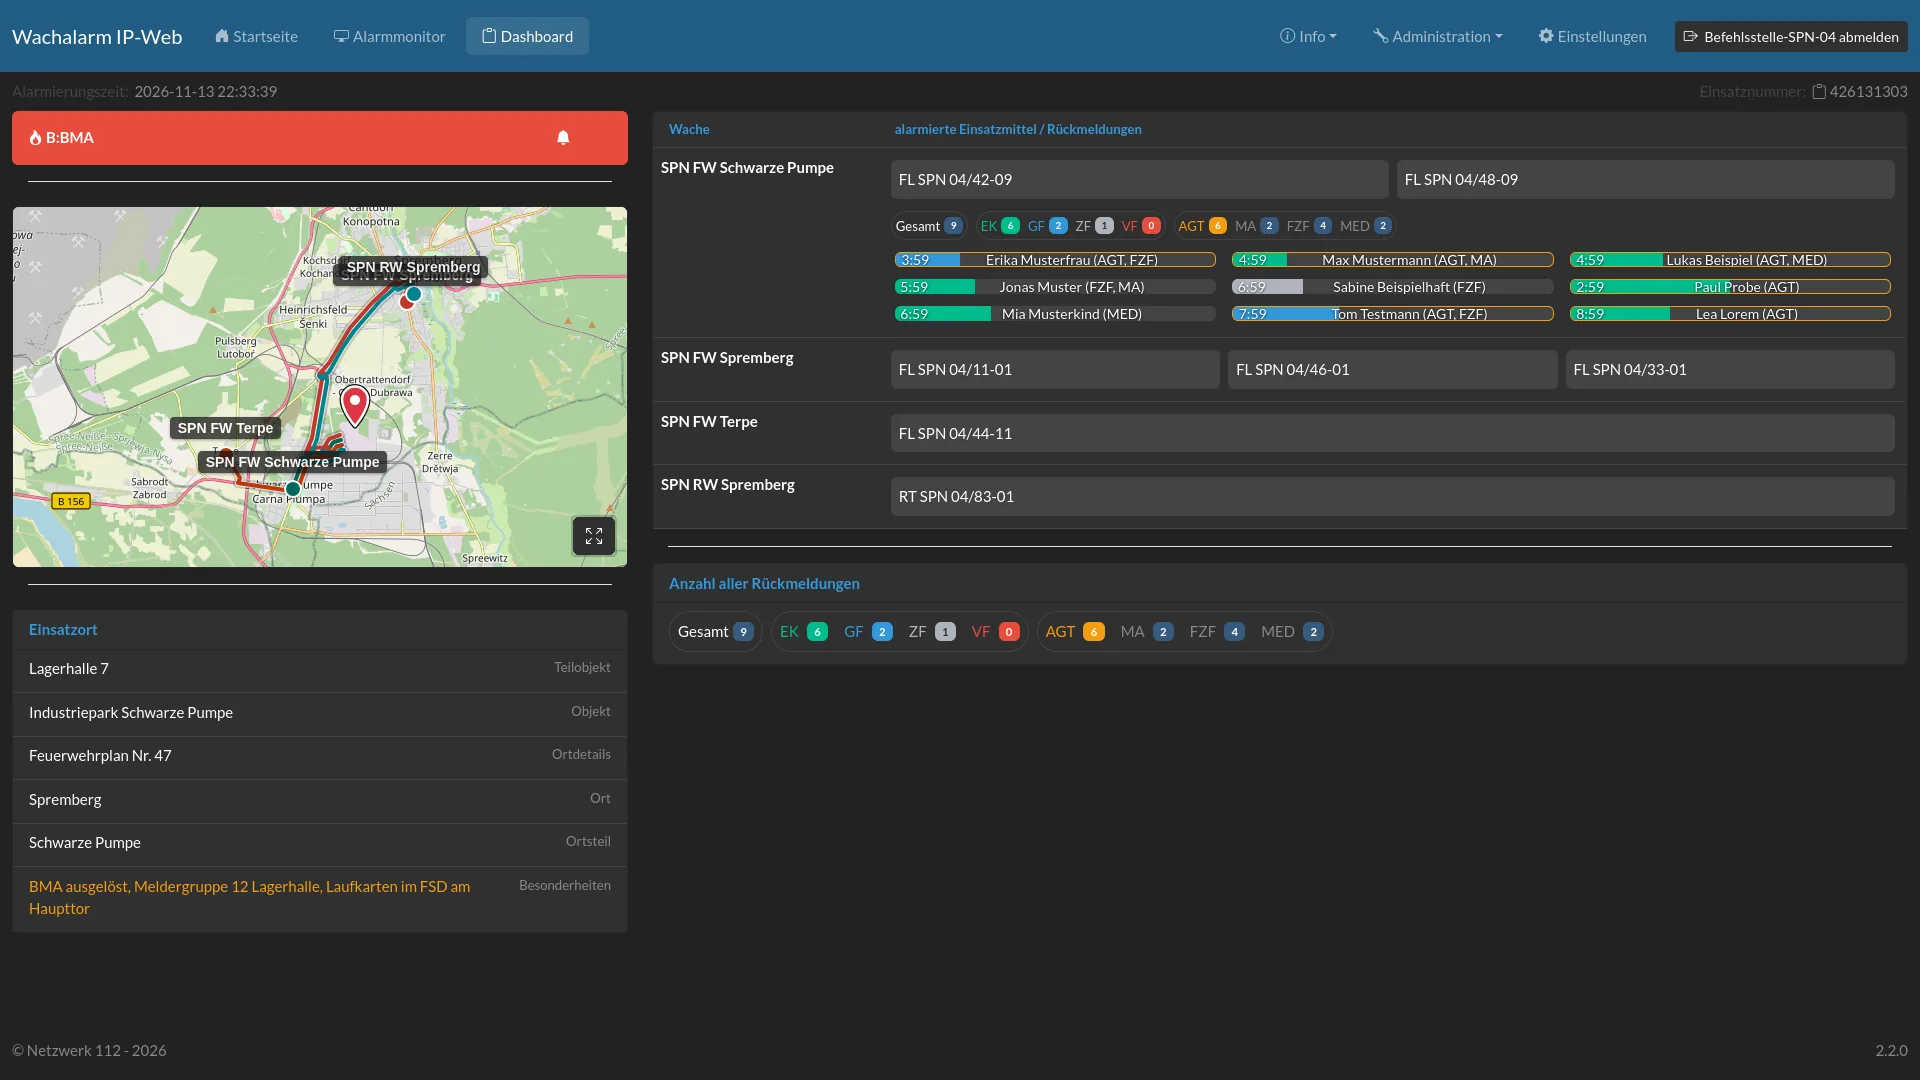
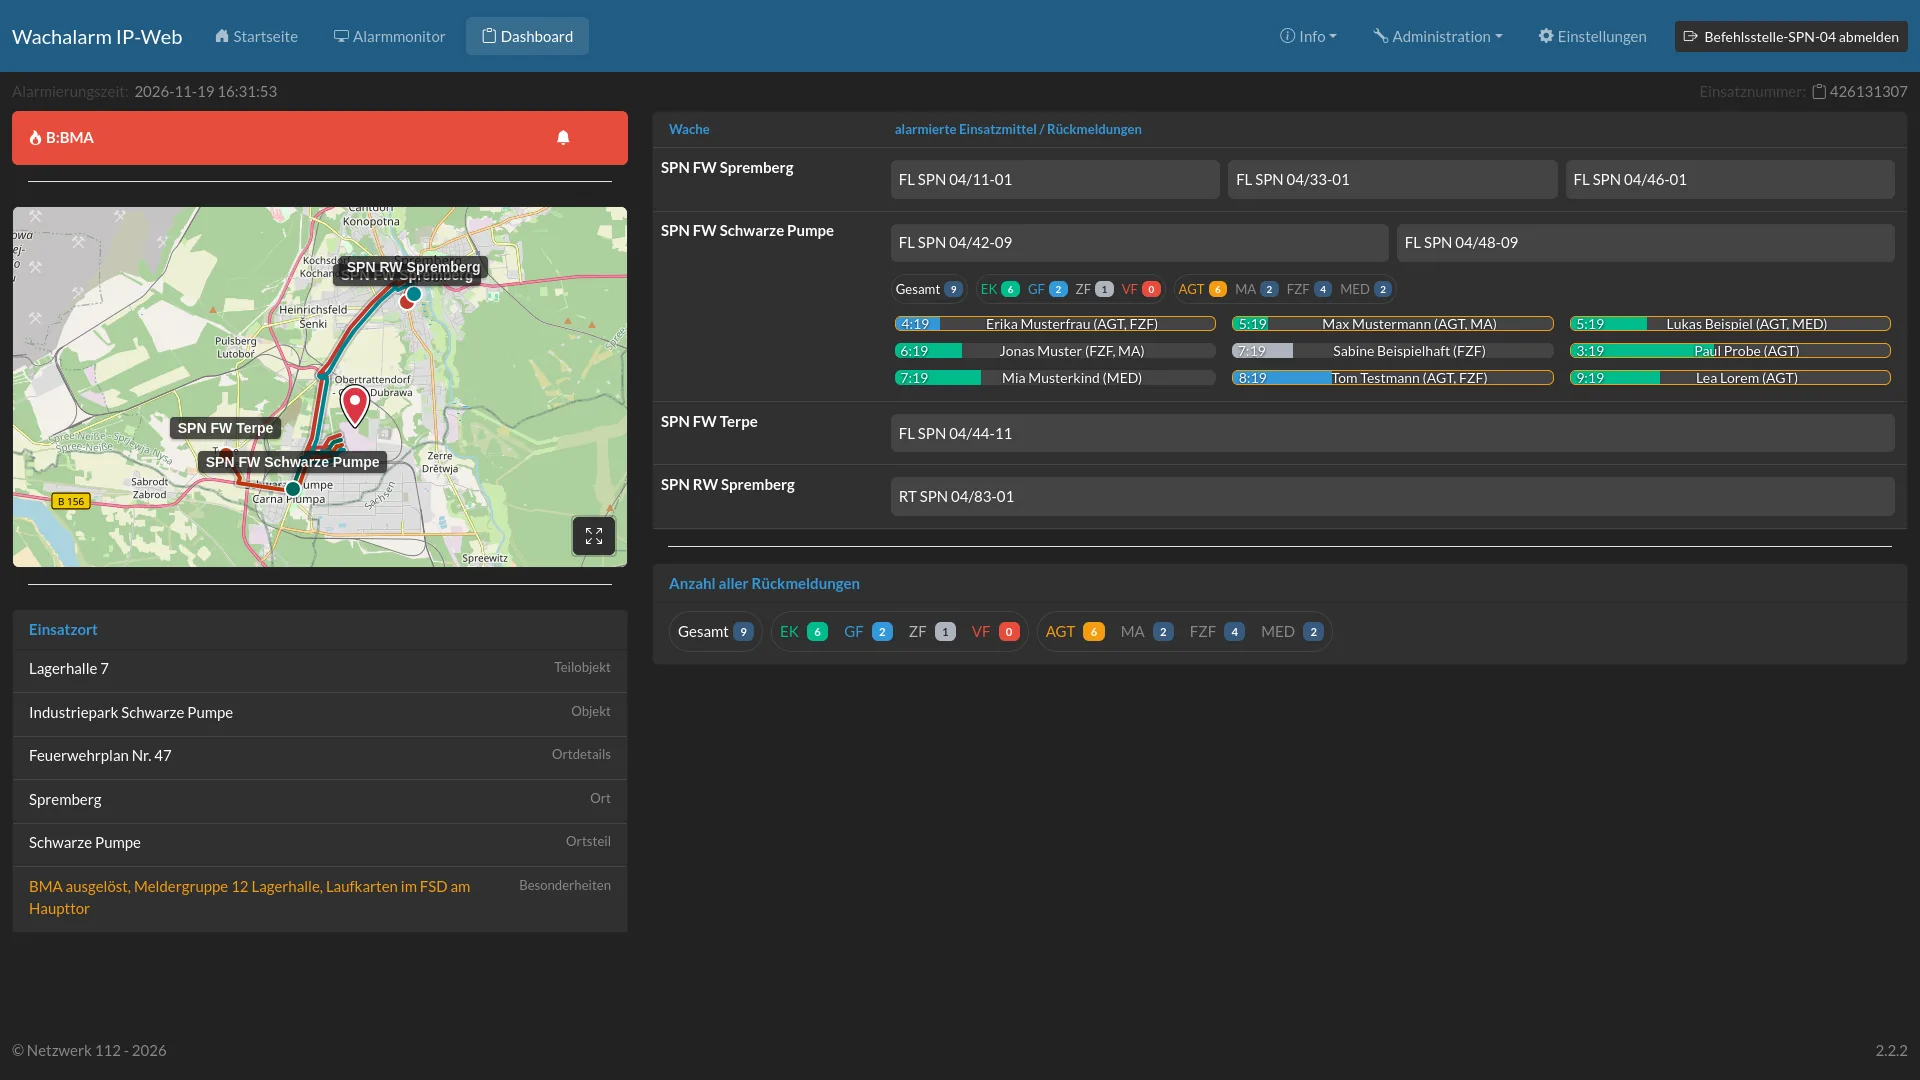
README: Version 2.2.2 im Versionsverlauf, neue Abbildungen für Dashboard und Standby
- Abbildungen Dashboard, Dashboard-Übersicht (Kacheln mit Einsatzmitteln und
  Rückmeldungen), Dashboard Smartphone und Standby (neues Wetter) neu erstellt
- Texte zu Rückmelde-Zählern, Übersichtskacheln und Standby-Wetter ergänzt

diff --git a/README.md b/README.md
@@ -103,7 +103,7 @@ Die nachfolgend aufgeführten Funktionen stehen im **`Wachalarm IP-Web`** genere
 
 - ist kein Einsatz aktiv, zeigt der Alarmmonitor Uhrzeit und Datum an
 - auf Wunsch werden zusätzlich angezeigt:
-    - das aktuelle Wetter sowie die Vorhersage für morgen und übermorgen
+    - das aktuelle Wetter mit Höchst- und Tiefstwert sowie die Vorhersage für die nächsten zwei Tage (die Wetteranzeige wird so groß, wie es der Platz erlaubt)
     - amtliche Unwetterwarnungen des Deutschen Wetterdienstes
     - die Waldbrandgefahrenstufe (ab einer einstellbaren Stufe)
     - die nächsten Termine aus einem Kalender (iCal/ICS), z.B. Dienstabende
@@ -127,14 +127,14 @@ Die nachfolgend aufgeführten Funktionen stehen im **`Wachalarm IP-Web`** genere
 - es zeigt, ebenso wie der Alarmmonitor, alle einsatzrelevanten Informationen an und berücksichtigt dabei die Berechtigungen des Nutzers (sofern angemeldet)
 - im Dashboard werden alle beteiligten Wachen inkl. der alarmierten Einsatzmittel und deren Anfahrtswege angezeigt
 - es werden alle positiven Rückmeldungen zum Einsatz angezeigt, dabei erfolgt eine Zuordnung der Rückmeldungen zu den alarmierten Wachen
-- die Rückmeldungen werden je Wache gezählt, inkl. einer Gesamt-Übersicht
+- die Rückmeldungen werden je Wache gezählt, inkl. einer Gesamt-Übersicht (erscheint erst, wenn Rückmeldungen eingehen)
 - das Dashboard des Einsatzes aktualisiert sich von selbst, ohne dass die Seite neu geladen werden muss
 
 ![Übersicht der laufenden Einsätze](docs/images/dbrd_uebersicht.webp)
 
 *Abbildung: Übersicht der laufenden Einsätze mit Kurz-Archiv*
 
-- die Übersicht zeigt alle laufenden Einsätze als Kacheln mit kleiner Karte
+- die Übersicht zeigt alle laufenden Einsätze als Kacheln mit kleiner Karte sowie der Anzahl der alarmierten Einsatzmittel und der bisherigen Rückmeldungen
 - Rettungseinsätze und Krankentransporte sind standardmäßig ausgeblendet und lassen sich per Schalter einblenden
 - beendete Brand- und Hilfeleistungseinsätze bleiben für einige Tage (Standard: 3 Tage) im Kurz-Archiv sichtbar
     - dort stehen nur grobe Angaben: Zeit, Ort und Ortsteil, Einsatzart und Stichwort, alarmierte Einsatzmittel sowie die Anzahl der Rückmeldungen
@@ -268,6 +268,13 @@ Die nachfolgend aufgeführten Funktionen stehen im **`Wachalarm IP-Web`** genere
 ---
 
 # Versionsverlauf
+
+## 2.2.2 (November 2026)
+
+- Dashboard: Zähler der Rückmeldungen erscheinen erst, wenn Rückmeldungen eingehen
+- Dashboard-Übersicht: Kacheln zeigen die Anzahl der alarmierten Einsatzmittel und der Rückmeldungen
+- Dashboard-Karte zeigt den Einsatzkreis bzw. Einsatzort auch dann vollständig, wenn eine Wache im Einsatzkreis liegt
+- Standby-Wetter: Höchst- und Tiefstwert untereinander, Datum statt „Übermorgen“, Wetteranzeige wird so groß, wie es der Platz erlaubt
 
 ## 2.2.1 (November 2026)
 
